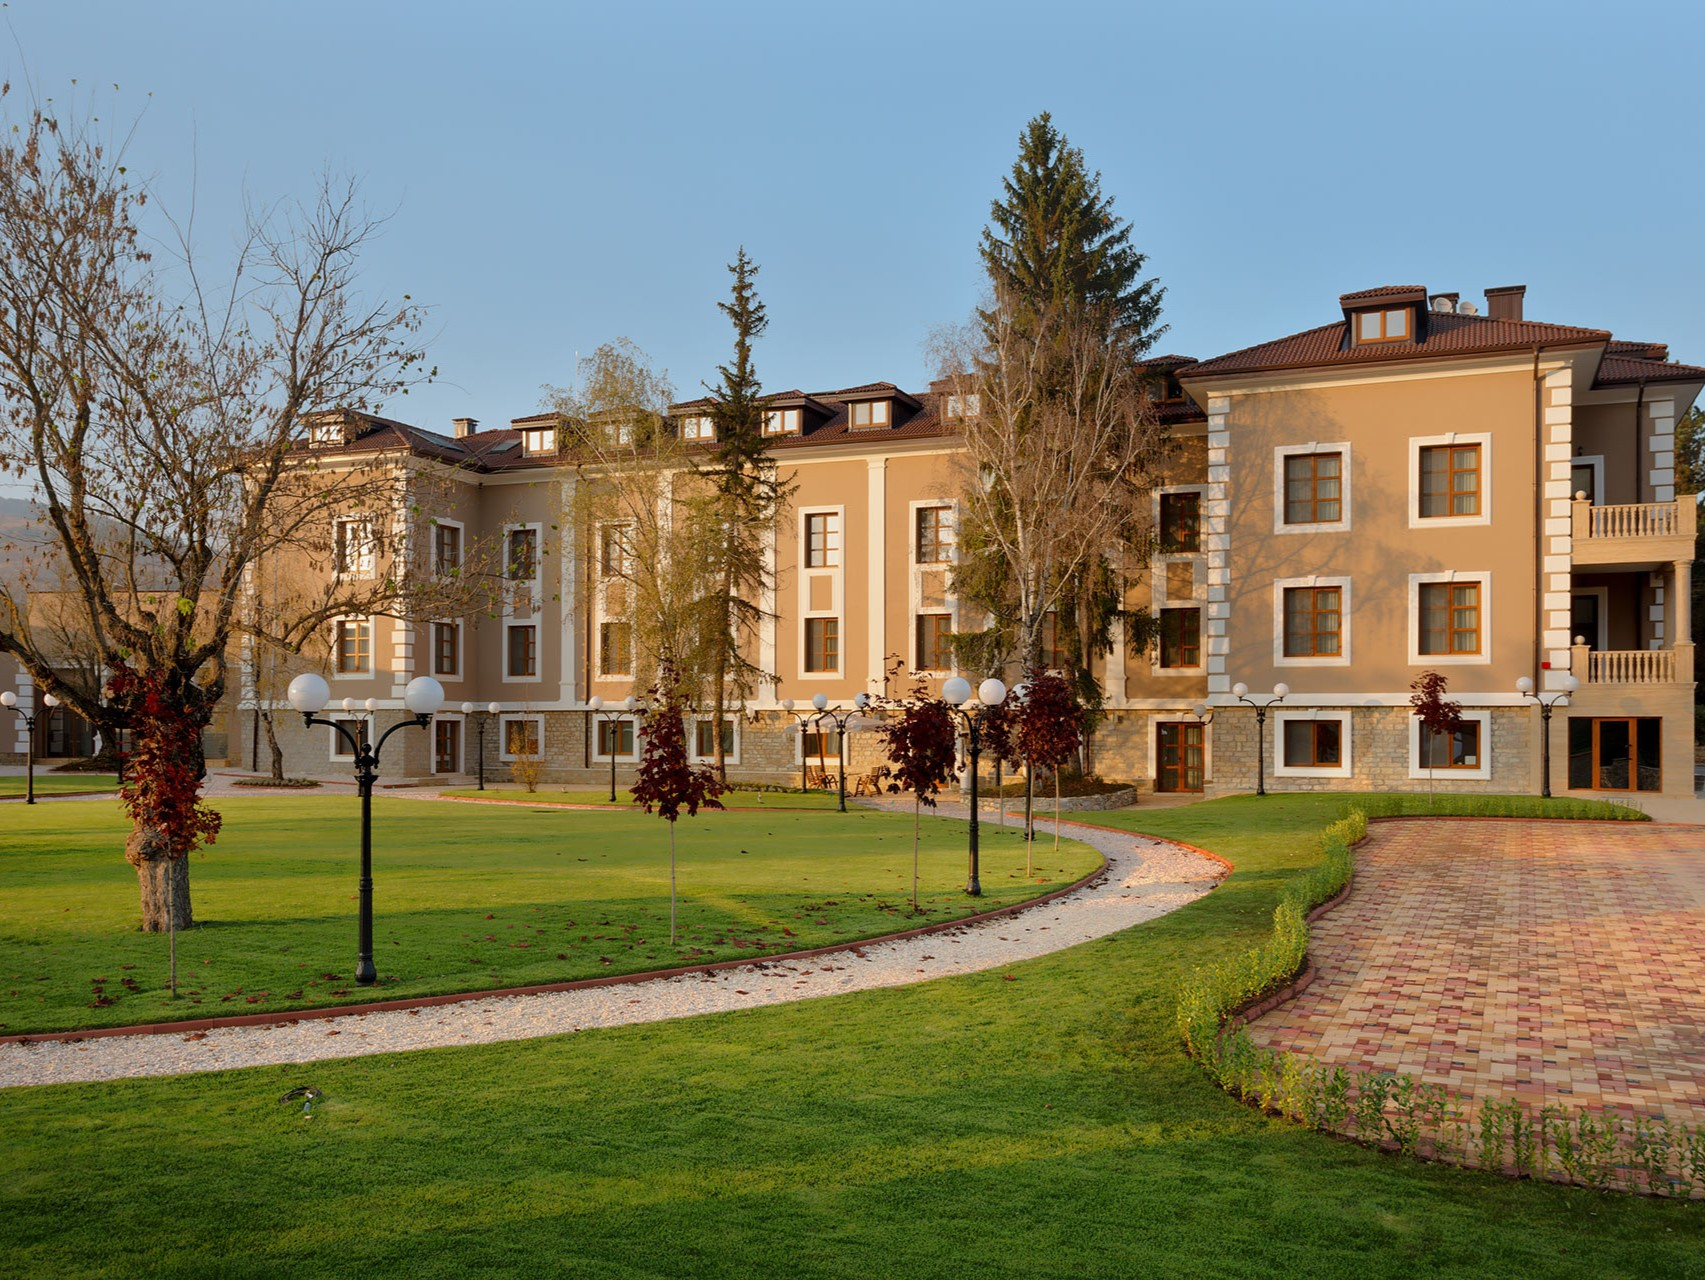
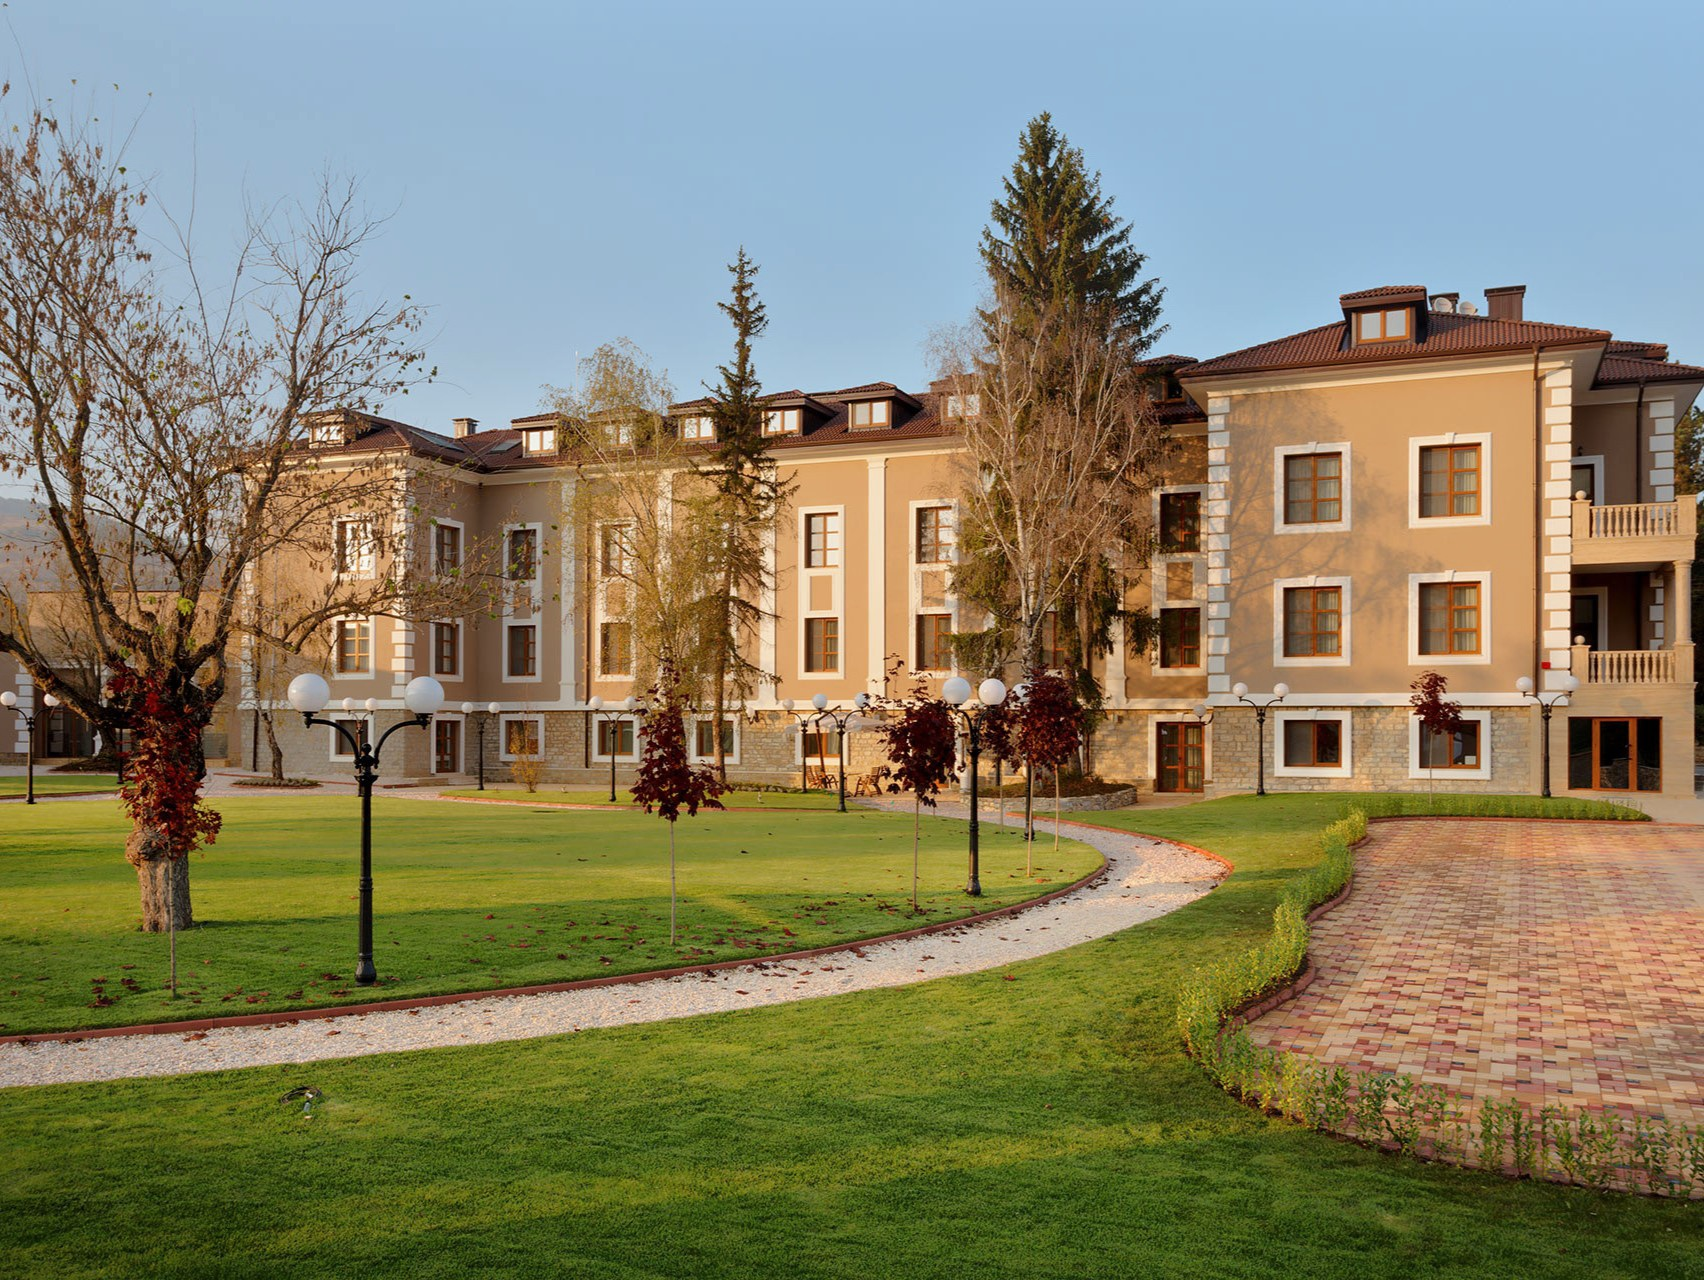
replaca location photos

diff --git a/index.html b/index.html
@@ -49,7 +49,7 @@
             <p>Скъпи гости,
             </br>
                 С огромна радост и вълнение Ви каним да бъдете част от най-щастливия ден в живота ни!
-                Очакваме Ви на 16.08.2025г., за да отпразнуваме заедно любовта, усмивките и новото начало!
+                Очакваме Ви на 16.08.2025г., за да отпразнуваме заедно любовта, щастието и началото на нашето семейство!
             </br>
             </br>
                 С нетърпение,
@@ -82,7 +82,7 @@
             <div class="location-text">
                 <p>Голямата винарна е впечатляваща с величествения си интериор, който съчетава класическа елегантност и съвременен стил. Тази локация ще бъде домакин на нашата вечеря, където ще се насладим на изискани ястия и вина, произведени именно тук.</p>
             </div>
-            <img src="uploads/location.jpg">
+            <img src="uploads/bigwinery.jpg">
         </div>
     </div>
 
